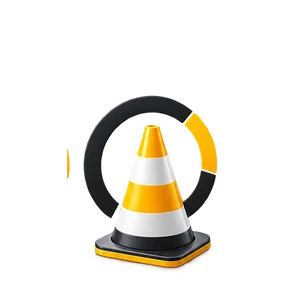
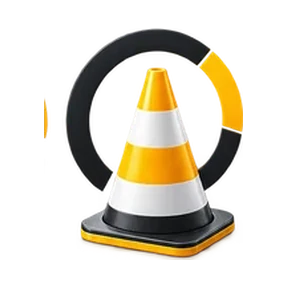
fix: align Citrarium benefit section

diff --git a/src/styles.css b/src/styles.css
@@ -4326,23 +4326,35 @@ body {
 
 .home-split {
   display: grid;
-  grid-template-columns: minmax(270px, 0.44fr) minmax(0, 1fr);
-  gap: clamp(34px, 6vw, 70px);
-  align-items: center;
+  grid-template-columns: minmax(320px, 0.48fr) minmax(0, 1fr);
+  gap: clamp(40px, 6vw, 70px);
+  align-items: stretch;
 }
 
 .home-split__media {
   border: 1px solid var(--line);
   border-radius: 14px;
-  background: var(--surface-raised);
+  background: #ffffff;
   overflow: hidden;
+  display: flex;
+  align-items: flex-end;
+  justify-content: center;
+  min-height: 560px;
+  height: 100%;
 }
 
 .home-split__media img {
-  width: 100%;
-  height: 360px;
-  object-fit: cover;
-  object-position: center top;
+  display: block;
+  width: min(126%, 480px);
+  max-width: none;
+  height: auto;
+  object-fit: contain;
+  object-position: center bottom;
+}
+
+.home-split__content {
+  display: grid;
+  align-content: start;
 }
 
 .benefit-list {
@@ -4353,8 +4365,9 @@ body {
 
 .benefit-item {
   display: grid;
-  grid-template-columns: 34px minmax(0, 1fr);
-  gap: 16px;
+  grid-template-columns: 52px minmax(0, 1fr);
+  gap: 18px;
+  align-items: start;
   border-bottom: 1px solid var(--line);
   padding: 20px 0;
 }
@@ -4366,15 +4379,16 @@ body {
 }
 
 .benefit-item__image {
-  width: 44px;
-  height: 44px;
+  width: 52px;
+  height: 52px;
   display: grid;
   place-items: center;
+  overflow: visible;
 }
 
 .benefit-item__image img {
-  width: 44px;
-  height: 44px;
+  width: 42px;
+  height: 42px;
   object-fit: contain;
 }
 

diff --git a/src/pages/HomePage.tsx b/src/pages/HomePage.tsx
@@ -305,7 +305,7 @@ export function HomePage() {
       <section className="home-section">
         <Container className="home-split">
           <div className="home-split__media" aria-hidden="true">
-            <img src={serviceAssetSrc.managerCar} alt="" loading="lazy" decoding="async" />
+            <img src={serviceAssetSrc.managerCar} alt="" loading="eager" decoding="async" />
           </div>
           <div className="home-split__content">
             <div className="home-section__head">
